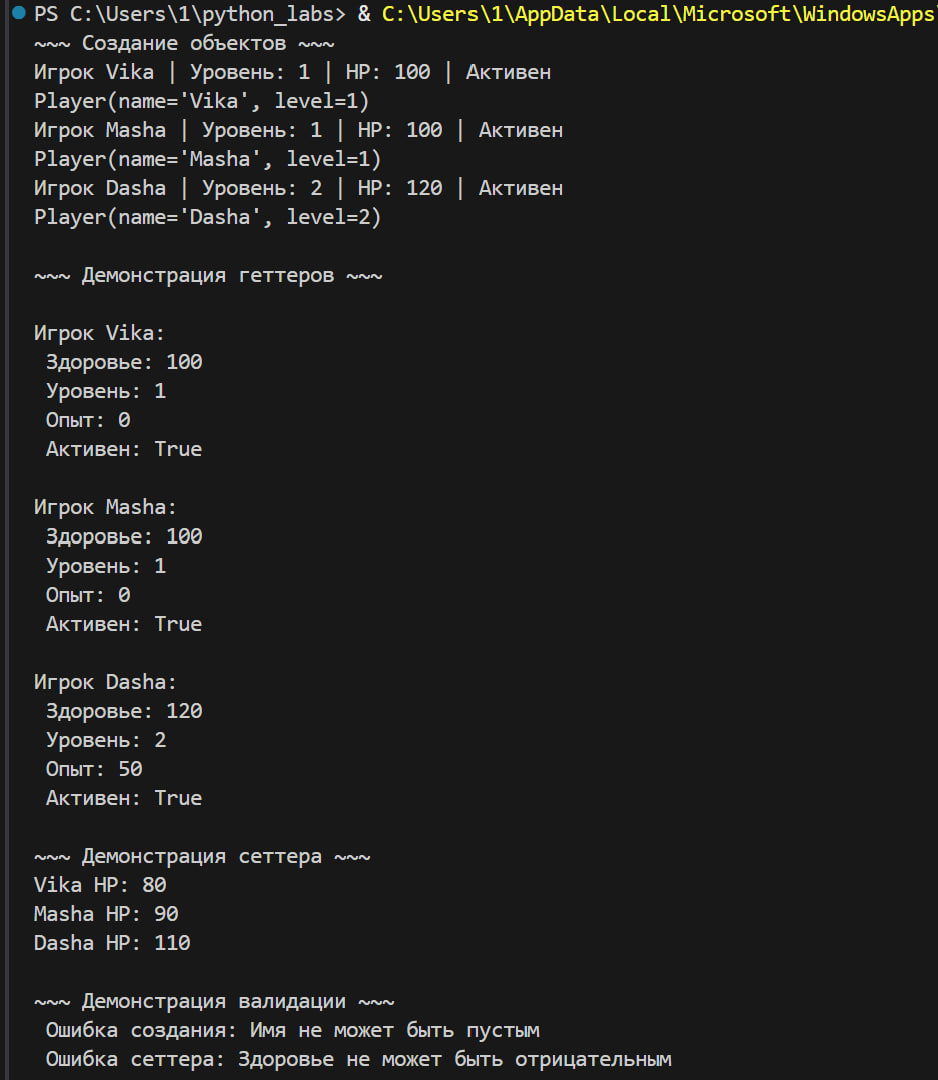
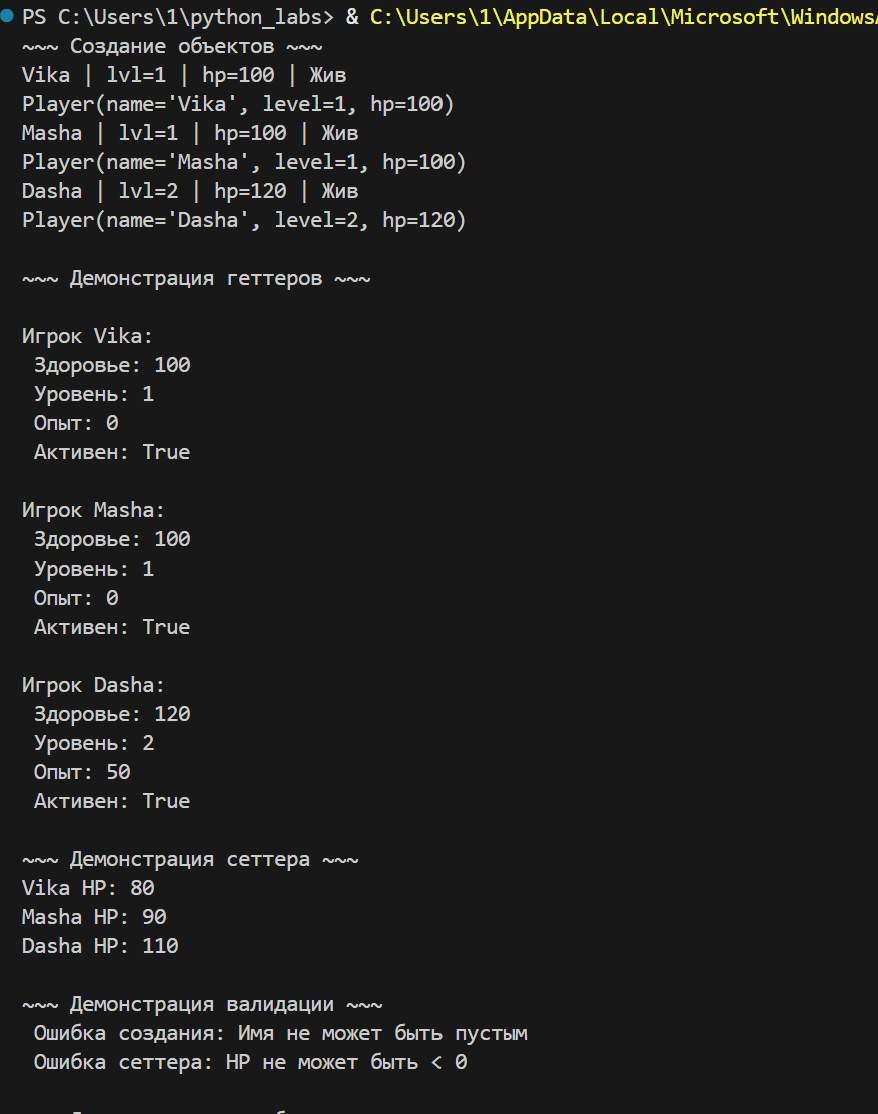
f

Changed region(s): [[0.0, 0.0, 1.0, 1.0]]

diff --git a/python_oop/src/lab01/model.py b/python_oop/src/lab01/model.py
@@ -1,20 +1,18 @@
-from validate import (
-    validate_name,
-    validate_health,
-    validate_level,
-    validate_experience
-)
+from validate import check_name, check_health, check_level, check_exp
+
 class Player:
-    MAX_LEVEL = 100  # атрибут класса
+    MAX_LEVEL = 100
+    EXP_TO_LEVEL = 100
 
-    def __init__(self, name: str, health: int, level: int, experience: int):
-        self._name = validate_name(name)
-        self._health = validate_health(health)
-        self._level = validate_level(level)
-        self._experience = validate_experience(experience)
-        self._active = True  # логическое состояние игрока
+    # ------------------- Конструктор -------------------
+    def __init__(self, name, health, level, exp):
+        self._name = check_name(name)
+        self._health = check_health(health)
+        self._level = check_level(level)
+        self._exp = check_exp(exp)
+        self._alive = True
 
-    # ------------------- properties -------------------
+    # ------------------- Свойства -------------------
     @property
     def name(self):
         return self._name
@@ -25,9 +23,9 @@ class Player:
 
     @health.setter
     def health(self, value):
-        self._health = validate_health(value)
-        if self._health <= 0:
-            self._active = False
+        self._health = check_health(value)
+        if self._health == 0:
+            self._alive = False
 
     @property
     def level(self):
@@ -35,53 +33,65 @@ class Player:
 
     @property
     def experience(self):
-        return self._experience
+        return self._exp
 
     @property
     def active(self):
-        return self._active
+        return self._alive
 
-    # ------------------- magic methods -------------------
+    # ------------------- Магические методы -------------------
     def __str__(self):
-        status = "Активен" if self._active else "Неактивен"
-        return f"Игрок {self._name} | Уровень: {self._level} | HP: {self._health} | {status}"
+        status = "Жив" if self._alive else "Мертв"
+        return f"{self._name} | lvl={self._level} | hp={self._health} | {status}"
 
     def __repr__(self):
-        return f"Player(name='{self._name}', level={self._level})"
+        return f"Player(name='{self._name}', level={self._level}, hp={self._health})"
 
     def __eq__(self, other):
         if not isinstance(other, Player):
             return False
-        return self._name == other._name and self._level == other._level
+        return (
+            self._name == other._name and
+            self._level == other._level and
+            self._health == other._health
+        )
 
-    # ------------------- бизнес-методы -------------------
-    def take_damage(self, damage: int):
-        if not self._active:
-            raise ValueError("Игрок неактивен")
-        if damage < 0:
+    # ------------------- Внутренние методы -------------------
+    def _level_up(self):
+        if self._level >= Player.MAX_LEVEL:
+            return
+        self._level += 1
+        print(f"{self._name} повысил уровень до {self._level}")
+
+    # ------------------- Бизнес-методы -------------------
+    def take_damage(self, dmg):
+        if not self._alive:
+            raise ValueError("Нельзя нанести урон мертвому игроку")
+        if dmg < 0:
             raise ValueError("Урон не может быть отрицательным")
-
-        self._health -= damage
+        self._health -= dmg
         if self._health <= 0:
             self._health = 0
-            self._active = False
+            self._alive = False
+            print(f"{self._name} погиб")
 
-    def gain_experience(self, amount: int):
-        if not self._active:
-            raise ValueError("Игрок неактивен")
-        if amount < 0:
+    def gain_experience(self, value):
+        if not self._alive:
+            raise ValueError("Мертвый игрок не получает опыт")
+        if value < 0:
             raise ValueError("Опыт не может быть отрицательным")
-
-        self._experience += amount
-        while self._experience >= 100:
+        self._exp += value
+        while self._exp >= Player.EXP_TO_LEVEL:
             if self._level >= Player.MAX_LEVEL:
-                self._experience = 0
+                self._exp = 0
                 break
-            self._experience -= 100
-            self._level += 1
+            self._exp -= Player.EXP_TO_LEVEL
+            self._level_up()
 
     def revive(self):
-        if self._active:
+        if self._alive:
             raise ValueError("Игрок уже активен")
         self._health = 100
-        self._active = True
+        self._alive = True
+        print(f"{self._name} воскрешен")
+       

diff --git a/python_oop/src/lab01/demo.py b/python_oop/src/lab01/demo.py
@@ -1,3 +1,4 @@
+
 from model import Player
 
 # ------------------- 1. Создание объектов -------------------
@@ -69,7 +70,6 @@ for p in players:
         print(f"{p.name} был оживлён:", p)
     else:
         print(f"{p.name} уже активен")
-
 # ------------------- 8. Бизнес-логика -------------------
 print("\n~~~ Демонстрация опыта и уровня ~~~")
 p1.gain_experience(250)
@@ -83,63 +83,3 @@ for p in players:
 print("\n~~~ Сравнение объектов ~~~")
 print(" p1 == p2:", p1 == p2)
 print(" p2 == p3:", p2 == p3)
-# from model import Player
-
-# # ------------------- 1. Создание объектов -------------------
-# print("~~~ Создание объектов ~~~")
-# p1 = Player("Vika", 100, 1, 0)
-# p2 = Player("Masha", 100, 1, 0)
-# print(p1)
-# print(repr(p1))
-
-# # ------------------- 2. Геттеры -------------------
-# print("~~~ Демонстрация геттеров ~~~")
-# print(" Имя:", p1.name)
-# print(" Здоровье:", p1.health)
-# print(" Уровень:", p1.level)
-# print(" Опыт:", p1.experience)
-# print(" Активен:", p1.active)
-
-# # ------------------- 3. Сеттер -------------------
-# print("\n~~~ Демонстрация сеттера ~~~")
-# p1.health = 80
-# print(" После изменения HP:", p1.health)
-
-# # ------------------- 4. Валидация -------------------
-# print("\n~~~ Демонстрация валидации ~~~")
-# try:
-#     bad = Player("", -10, 0, -5)
-# except Exception as e:
-#     print(" Ошибка создания:", e)
-
-# try:
-#     p1.health = -50
-# except Exception as e:
-#     print(" Ошибка сеттера:", e)
-
-# # ------------------- 5. Атрибуты класса -------------------
-# print("\n~~~ Демонстрация атрибутов класса ~~~")
-# print(" MAX_LEVEL через класс:", Player.MAX_LEVEL)
-# print(" MAX_LEVEL через объект:", p1.MAX_LEVEL)
-
-# # ------------------- 6. Логическое состояние -------------------
-# print("\n~~~Демонстрация логического состояния ~~~")
-# print(" Активен:", p1.active)
-# p1.take_damage(200)
-# print(" После смерти:", p1)
-# print(" Активен:", p1.active)
-
-# # ------------------- 7. Изменение состояния -------------------
-# print("\n~~~ Демонстрация изменения состояния ~~~")
-# p1.revive()
-# print(" После revive:", p1)
-# print(" Активен:", p1.active)
-
-# # ------------------- 8. Бизнес-логика -------------------
-# print("\n~~~ Демонстрация опыта и уровня ~~~")
-# p1.gain_experience(250)
-# print(p1)
-
-# # ------------------- 9. Сравнение -------------------
-# print("\n~~~ Сравнение объектов ~~~")
-# print(" p1 == p2:", p1 == p2)

diff --git a/python_oop/src/lab01/validate.py b/python_oop/src/lab01/validate.py
@@ -1,30 +1,27 @@
-def validate_name(name):
+def check_name(name):
     if not isinstance(name, str):
         raise TypeError("Имя должно быть строкой")
     if not name.strip():
         raise ValueError("Имя не может быть пустым")
     return name
 
+def check_health(hp):
+    if not isinstance(hp, int):
+        raise TypeError("HP должен быть int")
+    if hp < 0:
+        raise ValueError("HP не может быть < 0")
+    return hp
 
-def validate_health(health):
-    if not isinstance(health, int):
-        raise TypeError("Здоровье должно быть целым числом")
-    if health < 0:
-        raise ValueError("Здоровье не может быть отрицательным")
-    return health
+def check_level(lvl):
+    if not isinstance(lvl, int):
+        raise TypeError("Level должен быть int")
+    if not (1 <= lvl <= 100):
+        raise ValueError("Level должен быть 1-100")
+    return lvl
 
-
-def validate_level(level):
-    if not isinstance(level, int):
-        raise TypeError("Уровень должен быть целым числом")
-    if level <= 0 or level > 100:
-        raise ValueError("Уровень должен быть от 1 до 100")
-    return level
-
-
-def validate_experience(exp):
+def check_exp(exp):
     if not isinstance(exp, int):
-        raise TypeError("Опыт должен быть целым числом")
+        raise TypeError("Exp должен быть int")
     if exp < 0:
-        raise ValueError("Опыт не может быть отрицательным")
+        raise ValueError("Exp не может быть < 0")
     return exp
